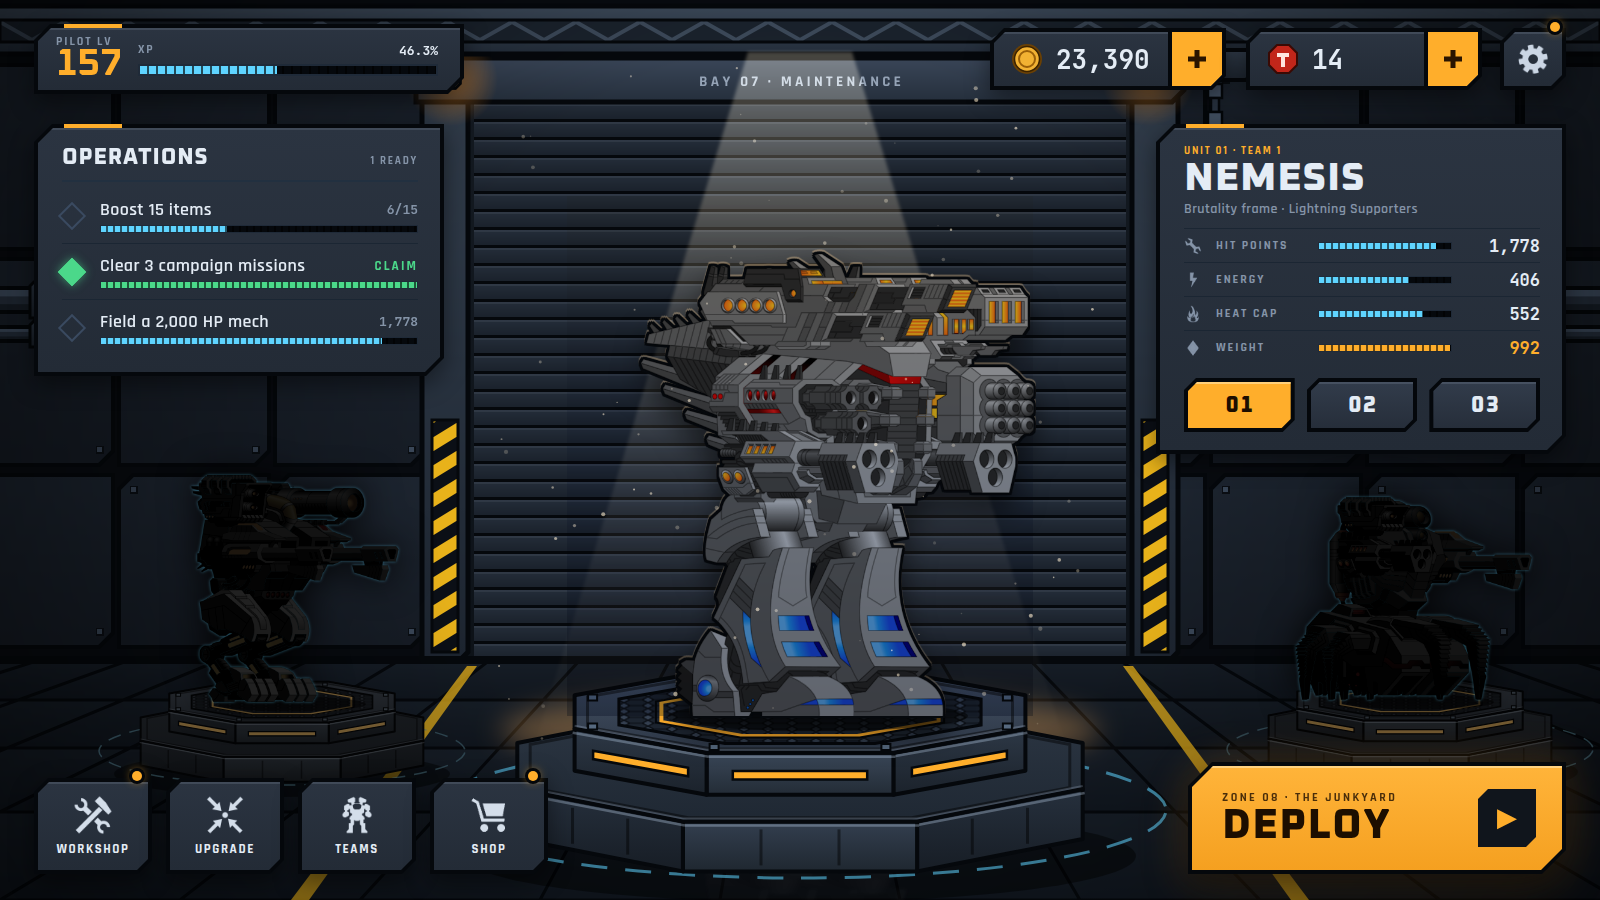
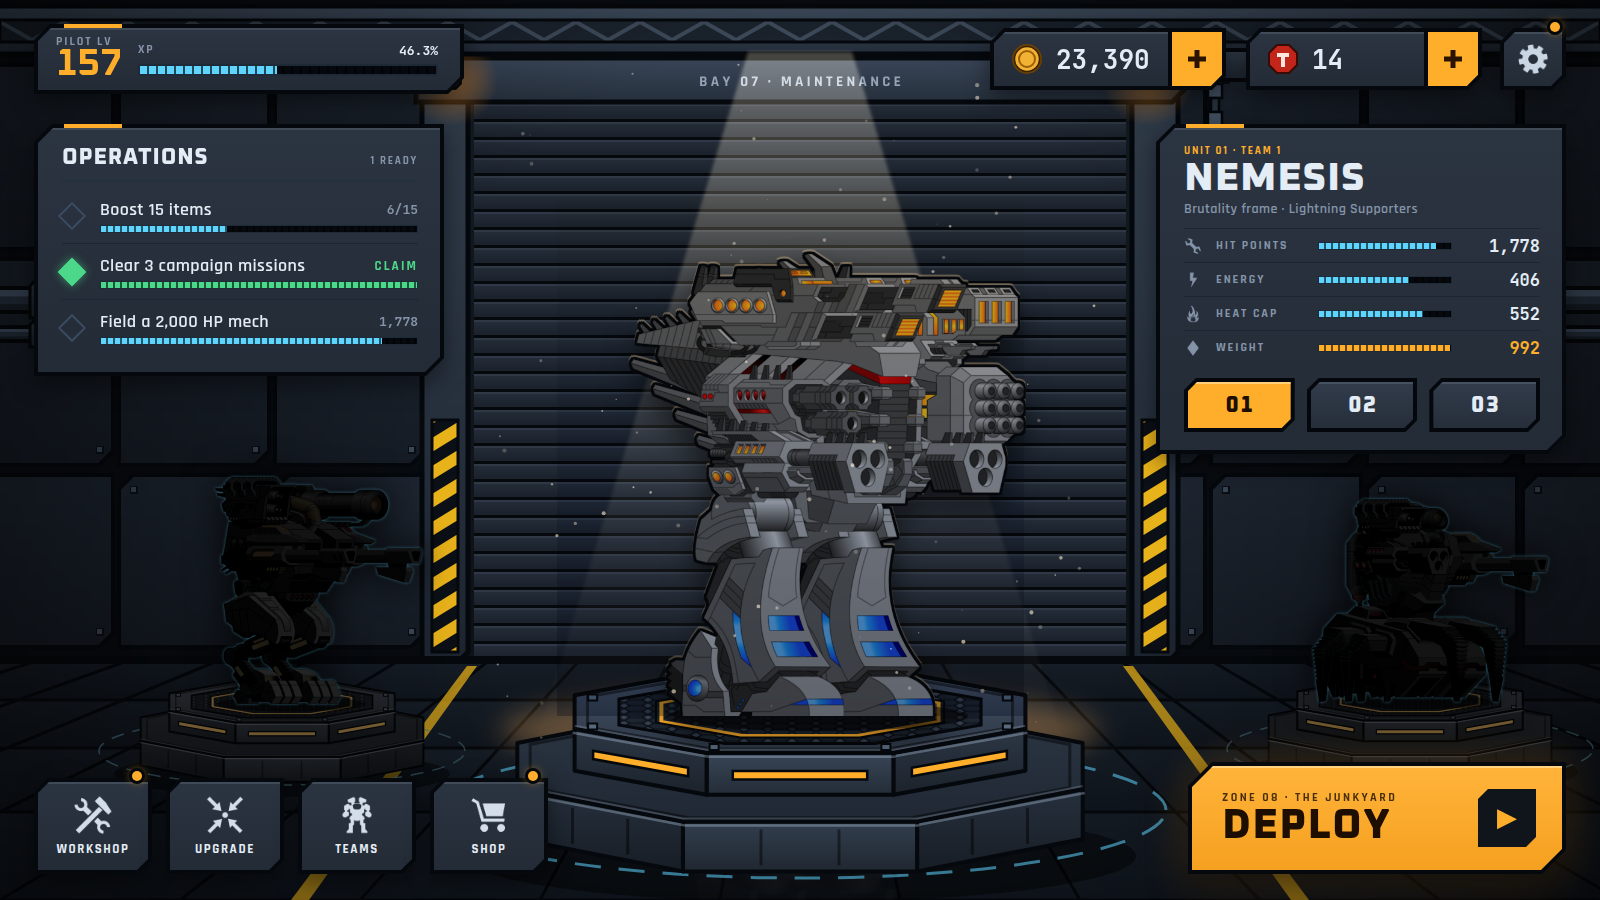
Stand every mech on the centre of its pedestal by its feet
build_mechs.py records each mech's foot point (midpoint between the legs,
bottom of the lowest leg); standOn() places a mech so that point lands on the
pedestal centre, whatever its weapons stick out.

Claude-Session: https://claude.ai/code/session_016EMeU7WbdybdkHaQ4QiAx5

diff --git a/ui/mocks/assets/mech.js b/ui/mocks/assets/mech.js
@@ -1,8 +1,9 @@
 // Generated by ui/mocks/build_mechs.py from the game's own sprites and anchors.
-window.MECHS={"m1": {"w": 863, "h": 845, "parts": [{"src": "assets/mechs/sideRifle1E.png", "x": 433, "y": 270, "z": 1, "slot": "side2"}, {"src": "assets/mechs/sideRifle1E.png", "x": 419, "y": 366, "z": 2, "slot": "side4"}, {"src": "assets/mechs/topLaser2C_phys.png", "x": 386, "y": 56, "z": 3, "slot": "top2"}, {"src": "assets/mechs/leg73D_phys.png", "x": 369, "y": 493, "z": 4, "slot": "leg2"}, {"src": "assets/mechs/torso52_phys.png", "x": 0, "y": 0, "z": 5, "slot": "torso"}, {"src": "assets/mechs/topLaser2B_phys.png", "x": 255, "y": 90, "z": 6, "slot": "top1"}, {"src": "assets/mechs/leg73D_phys.png", "x": 221, "y": 493, "z": 7, "slot": "leg1"}, {"src": "assets/mechs/cannon3C.png", "x": 242, "y": 274, "z": 8, "slot": "side1"}, {"src": "assets/mechs/sideRifle2E.png", "x": 224, "y": 366, "z": 9, "slot": "side3"}]}, "m2": {"w": 750, "h": 785, "parts": [{"src": "assets/mechs/sideRifle2E.png", "x": 320, "y": 224, "z": 1, "slot": "side2"}, {"src": "assets/mechs/topBeam2E_phys.png", "x": 258, "y": 98, "z": 2, "slot": "top2"}, {"src": "assets/mechs/leg67D_phys.png", "x": 244, "y": 433, "z": 3, "slot": "leg2"}, {"src": "assets/mechs/torso46_phys.png", "x": 0, "y": 0, "z": 4, "slot": "torso"}, {"src": "assets/mechs/topLaser2C_phys.png", "x": 98, "y": 72, "z": 5, "slot": "top1"}, {"src": "assets/mechs/leg67D_phys.png", "x": 124, "y": 433, "z": 6, "slot": "leg1"}, {"src": "assets/mechs/sideRifle1E.png", "x": 116, "y": 224, "z": 7, "slot": "side1"}]}, "m3": {"w": 750, "h": 713, "parts": [{"src": "assets/mechs/sideRifle1E.png", "x": 320, "y": 190, "z": 1, "slot": "side2"}, {"src": "assets/mechs/leg77D_heat.png", "x": 135, "y": 415, "z": 2, "slot": "leg2"}, {"src": "assets/mechs/torso47_phys.png", "x": 0, "y": 0, "z": 3, "slot": "torso"}, {"src": "assets/mechs/topLaser2B_phys.png", "x": 147, "y": 84, "z": 4, "slot": "top1"}, {"src": "assets/mechs/leg77D_heat.png", "x": 15, "y": 415, "z": 5, "slot": "leg1"}, {"src": "assets/mechs/cannon3C.png", "x": 144, "y": 193, "z": 6, "slot": "side1"}]}, "target": {"w": 775, "h": 864, "parts": [{"src": "assets/mechs/cannon8C2.png", "x": 449, "y": 258, "z": 1, "slot": "side2"}, {"src": "assets/mechs/cannon3C.png", "x": 447, "y": 369, "z": 2, "slot": "side4"}, {"src": "assets/mechs/sideDistanceCloser1E.png", "x": 382, "y": 117, "z": 3, "slot": "top2"}, {"src": "assets/mechs/leg73E.png", "x": 331, "y": 490, "z": 4, "slot": "leg2"}, {"src": "assets/mechs/torso52.png", "x": 0, "y": 0, "z": 5, "slot": "torso"}, {"src": "assets/mechs/sideMegaBlaster1E.png", "x": 220, "y": 116, "z": 6, "slot": "top1"}, {"src": "assets/mechs/leg73E.png", "x": 183, "y": 490, "z": 7, "slot": "leg1"}, {"src": "assets/mechs/sideSuperRocketLauncher2D.png", "x": 236, "y": 281, "z": 8, "slot": "side1"}, {"src": "assets/mechs/cannon3C.png", "x": 252, "y": 369, "z": 9, "slot": "side3"}]}, "m1hand": {"w": 799, "h": 842, "parts": [{"src": "assets/mechs/sideRifle1E.png", "x": 369, "y": 193, "z": 1, "slot": "side2"}, {"src": "assets/mechs/sideRifle1E.png", "x": 369, "y": 332, "z": 2, "slot": "side4"}, {"src": "assets/mechs/topLaser2C_phys.png", "x": 412, "y": 69, "z": 3, "slot": "top2"}, {"src": "assets/mechs/leg73D_phys.png", "x": 357, "y": 489, "z": 4, "slot": "leg2"}, {"src": "assets/mechs/torso52_phys.png", "x": 0, "y": 0, "z": 6, "slot": "torso"}, {"src": "assets/mechs/topLaser2B_phys.png", "x": 250, "y": 114, "z": 7, "slot": "top1"}, {"src": "assets/mechs/leg73D_phys.png", "x": 236, "y": 490, "z": 8, "slot": "leg1"}, {"src": "assets/mechs/cannon3C.png", "x": 242, "y": 223, "z": 9, "slot": "side1"}, {"src": "assets/mechs/sideRifle2E.png", "x": 175, "y": 333, "z": 10, "slot": "side3"}]}};
+window.MECHS={"m1": {"w": 863, "h": 845, "parts": [{"src": "assets/mechs/sideRifle1E.png", "x": 433, "y": 270, "z": 1, "slot": "side2"}, {"src": "assets/mechs/sideRifle1E.png", "x": 419, "y": 366, "z": 2, "slot": "side4"}, {"src": "assets/mechs/topLaser2C_phys.png", "x": 386, "y": 56, "z": 3, "slot": "top2"}, {"src": "assets/mechs/leg73D_phys.png", "x": 369, "y": 493, "z": 4, "slot": "leg2"}, {"src": "assets/mechs/torso52_phys.png", "x": 0, "y": 0, "z": 5, "slot": "torso"}, {"src": "assets/mechs/topLaser2B_phys.png", "x": 255, "y": 90, "z": 6, "slot": "top1"}, {"src": "assets/mechs/leg73D_phys.png", "x": 221, "y": 493, "z": 7, "slot": "leg1"}, {"src": "assets/mechs/cannon3C.png", "x": 242, "y": 274, "z": 8, "slot": "side1"}, {"src": "assets/mechs/sideRifle2E.png", "x": 224, "y": 366, "z": 9, "slot": "side3"}], "fx": 433.7, "fy": 844.9}, "m2": {"w": 750, "h": 785, "parts": [{"src": "assets/mechs/sideRifle2E.png", "x": 320, "y": 224, "z": 1, "slot": "side2"}, {"src": "assets/mechs/topBeam2E_phys.png", "x": 258, "y": 98, "z": 2, "slot": "top2"}, {"src": "assets/mechs/leg67D_phys.png", "x": 244, "y": 433, "z": 3, "slot": "leg2"}, {"src": "assets/mechs/torso46_phys.png", "x": 0, "y": 0, "z": 4, "slot": "torso"}, {"src": "assets/mechs/topLaser2C_phys.png", "x": 98, "y": 72, "z": 5, "slot": "top1"}, {"src": "assets/mechs/leg67D_phys.png", "x": 124, "y": 433, "z": 6, "slot": "leg1"}, {"src": "assets/mechs/sideRifle1E.png", "x": 116, "y": 224, "z": 7, "slot": "side1"}], "fx": 307.7, "fy": 785.2}, "m3": {"w": 750, "h": 713, "parts": [{"src": "assets/mechs/sideRifle1E.png", "x": 320, "y": 190, "z": 1, "slot": "side2"}, {"src": "assets/mechs/leg77D_heat.png", "x": 135, "y": 415, "z": 2, "slot": "leg2"}, {"src": "assets/mechs/torso47_phys.png", "x": 0, "y": 0, "z": 3, "slot": "torso"}, {"src": "assets/mechs/topLaser2B_phys.png", "x": 147, "y": 84, "z": 4, "slot": "top1"}, {"src": "assets/mechs/leg77D_heat.png", "x": 15, "y": 415, "z": 5, "slot": "leg1"}, {"src": "assets/mechs/cannon3C.png", "x": 144, "y": 193, "z": 6, "slot": "side1"}], "fx": 319.2, "fy": 712.9}, "target": {"w": 775, "h": 864, "parts": [{"src": "assets/mechs/cannon8C2.png", "x": 449, "y": 258, "z": 1, "slot": "side2"}, {"src": "assets/mechs/cannon3C.png", "x": 447, "y": 369, "z": 2, "slot": "side4"}, {"src": "assets/mechs/sideDistanceCloser1E.png", "x": 382, "y": 117, "z": 3, "slot": "top2"}, {"src": "assets/mechs/leg73E.png", "x": 331, "y": 490, "z": 4, "slot": "leg2"}, {"src": "assets/mechs/torso52.png", "x": 0, "y": 0, "z": 5, "slot": "torso"}, {"src": "assets/mechs/sideMegaBlaster1E.png", "x": 220, "y": 116, "z": 6, "slot": "top1"}, {"src": "assets/mechs/leg73E.png", "x": 183, "y": 490, "z": 7, "slot": "leg1"}, {"src": "assets/mechs/sideSuperRocketLauncher2D.png", "x": 236, "y": 281, "z": 8, "slot": "side1"}, {"src": "assets/mechs/cannon3C.png", "x": 252, "y": 369, "z": 9, "slot": "side3"}], "fx": 403.6, "fy": 864.0}, "m1hand": {"w": 799, "h": 842, "parts": [{"src": "assets/mechs/sideRifle1E.png", "x": 369, "y": 193, "z": 1, "slot": "side2"}, {"src": "assets/mechs/sideRifle1E.png", "x": 369, "y": 332, "z": 2, "slot": "side4"}, {"src": "assets/mechs/topLaser2C_phys.png", "x": 412, "y": 69, "z": 3, "slot": "top2"}, {"src": "assets/mechs/leg73D_phys.png", "x": 357, "y": 489, "z": 4, "slot": "leg2"}, {"src": "assets/mechs/torso52_phys.png", "x": 0, "y": 0, "z": 6, "slot": "torso"}, {"src": "assets/mechs/topLaser2B_phys.png", "x": 250, "y": 114, "z": 7, "slot": "top1"}, {"src": "assets/mechs/leg73D_phys.png", "x": 236, "y": 490, "z": 8, "slot": "leg1"}, {"src": "assets/mechs/cannon3C.png", "x": 242, "y": 223, "z": 9, "slot": "side1"}, {"src": "assets/mechs/sideRifle2E.png", "x": 175, "y": 333, "z": 10, "slot": "side3"}], "fx": 435.4, "fy": 842.5}};
 
 window.buildMech=function(el,key,heightPx){const m=window.MECHS[key];el.style.position='relative';el.style.width=m.w+'px';el.style.height=m.h+'px';
  for(const p of m.parts){const i=document.createElement('img');i.src=p.src;i.draggable=false;i.style.cssText='position:absolute;left:'+p.x+'px;top:'+p.y+'px;z-index:'+p.z+';max-width:none'+(p.css?';filter:'+p.css:'');el.appendChild(i);}
  if(heightPx){const s=heightPx/m.h;el.style.transformOrigin='0 0';el.style.transform='scale('+s+')';el.dataset.w=m.w*s;el.dataset.h=heightPx;el.style.marginRight=(-(m.w-m.w*s))+'px';el.style.marginBottom=(-(m.h-heightPx))+'px';}
  return el;};
+window.standOn=function(el,key,h,cx,topY){const m=window.MECHS[key];const k=h/m.h;el.style.left=(cx-(m.fx??m.w/2)*k)+'px';el.style.top=(topY-(m.fy??m.h)*k)+'px';};
 window.fitStage=function(){const st=document.querySelector('.stage');function f(){const s=Math.min(innerWidth/1600,innerHeight/900);st.style.transform='scale('+s+')';st.style.left=((innerWidth-1600*s)/2)+'px';st.style.top=((innerHeight-900*s)/2)+'px';}f();addEventListener('resize',f);};

diff --git a/ui/mocks/F-bay.html b/ui/mocks/F-bay.html
@@ -311,7 +311,9 @@ Promise.all(['800 360px "Oxanium"','700 15px "Rajdhani"'].map(f=>document.fonts.
 let seed=7; const rnd=()=>(seed=(seed*16807)%2147483647)/2147483647;
 /* ---------------- mechs ---------------- */
 function place(id,key,h,left,top){const w=document.getElementById(id);const i=document.createElement('div');buildMech(i,key,h);w.appendChild(i);w.style.width=i.dataset.w+'px';w.style.height=i.dataset.h+'px';if(left!=null){w.style.left=left+'px';w.style.top=top+'px';}return w;}
-const H=520, m=window.MECHS.target, W=m.w*H/m.h, L=800-W/2, T=716-H;
+// every mech stands with its feet centred on its pedestal (standOn uses the midpoint between the legs)
+const PED={main:[800,716],left:[282,704],right:[1410,702]};
+const H=520, m=window.MECHS.target, W=m.w*H/m.h, L=PED.main[0]-m.fx*H/m.h, T=PED.main[1]-m.fy*H/m.h;
 place('mech','target',H,L,T); place('refl','target',H,L,716-6);
 { const sh=document.getElementById('shade'); sh.style.left=L+'px'; sh.style.top=T+'px'; sh.style.width=W+'px'; sh.style.height=H+'px';
   const src=[...document.querySelectorAll('#mech img')];
@@ -319,7 +321,8 @@ place('mech','target',H,L,T); place('refl','target',H,L,716-6);
   const holder=document.createElement('div'); buildMech(holder,'target',H); sh.appendChild(holder);
   holder.querySelectorAll('img').forEach(i=>{i.style.filter='brightness(0) invert(1)';});
   const grad=document.createElement('div'); grad.style.cssText='position:absolute;inset:0;mix-blend-mode:multiply;background:linear-gradient(180deg,rgba(255,236,210,1) 0%,rgba(150,175,215,1) 55%,rgba(70,90,130,1) 100%)'; sh.appendChild(grad); sh.style.isolation='isolate'; }
-place('side1','m2',250,160,452); place('side2','m3',230,1290,470);
+place('side1','m2',250); standOn(document.getElementById('side1'),'m2',250,...PED.left);
+place('side2','m3',230); standOn(document.getElementById('side2'),'m3',230,...PED.right);
 
 
 /* ---------------- dust in the light (animated) ---------------- */

diff --git a/ui/mocks/build_mechs.py b/ui/mocks/build_mechs.py
@@ -86,6 +86,16 @@ def anchors(name):
     raise SystemExit("no anchors for " + name)
 
 
+def feet(placed, x0, y0):
+    """Where the mech stands: fx = midpoint between the two legs, fy = bottom of the lowest leg (mech-local px)."""
+    legs = [p for p in placed if p[0] in ("leg1", "leg2")]
+    if not legs:
+        return {}
+    cx = sum(p[2] + p[4] / 2 for p in legs) / len(legs)
+    by = max(p[3] + p[5] for p in legs)
+    return {"fx": round(cx - x0, 1), "fy": round(by - y0, 1)}
+
+
 def assemble(loadout):
     """loadout: dict slot -> sprite name. Returns {w,h,parts}."""
     torso = loadout["torso"]
@@ -124,7 +134,7 @@ def assemble(loadout):
         if slot in filters:
             part["css"] = filters[slot]
         parts.append(part)
-    return {"w": round(x1 - x0), "h": round(y1 - y0), "parts": parts}
+    return {"w": round(x1 - x0), "h": round(y1 - y0), "parts": parts, **feet(placed, x0, y0)}
 
 
 
@@ -147,7 +157,8 @@ def assemble_aligned(saved_path):
         os.makedirs(os.path.join(MOCKS, "assets", "mechs"), exist_ok=True)
         shutil.copy(sprite_path(name), os.path.join(MOCKS, dst))
         out.append({"src": dst, "x": round(x - x0), "y": round(y - y0), "z": z, "slot": slot})
-    return {"w": round(x1 - x0), "h": round(y1 - y0), "parts": out}
+    return {"w": round(x1 - x0), "h": round(y1 - y0), "parts": out,
+            **feet([(sl, n, x, y, w, h) for sl, n, x, y, z, w, h in sized], x0, y0)}
 
 
 LOADOUTS = {
@@ -176,6 +187,7 @@ window.buildMech=function(el,key,heightPx){const m=window.MECHS[key];el.style.po
  for(const p of m.parts){const i=document.createElement('img');i.src=p.src;i.draggable=false;i.style.cssText='position:absolute;left:'+p.x+'px;top:'+p.y+'px;z-index:'+p.z+';max-width:none'+(p.css?';filter:'+p.css:'');el.appendChild(i);}
  if(heightPx){const s=heightPx/m.h;el.style.transformOrigin='0 0';el.style.transform='scale('+s+')';el.dataset.w=m.w*s;el.dataset.h=heightPx;el.style.marginRight=(-(m.w-m.w*s))+'px';el.style.marginBottom=(-(m.h-heightPx))+'px';}
  return el;};
+window.standOn=function(el,key,h,cx,topY){const m=window.MECHS[key];const k=h/m.h;el.style.left=(cx-(m.fx??m.w/2)*k)+'px';el.style.top=(topY-(m.fy??m.h)*k)+'px';};
 window.fitStage=function(){const st=document.querySelector('.stage');function f(){const s=Math.min(innerWidth/1600,innerHeight/900);st.style.transform='scale('+s+')';st.style.left=((innerWidth-1600*s)/2)+'px';st.style.top=((innerHeight-900*s)/2)+'px';}f();addEventListener('resize',f);};
 """
 
